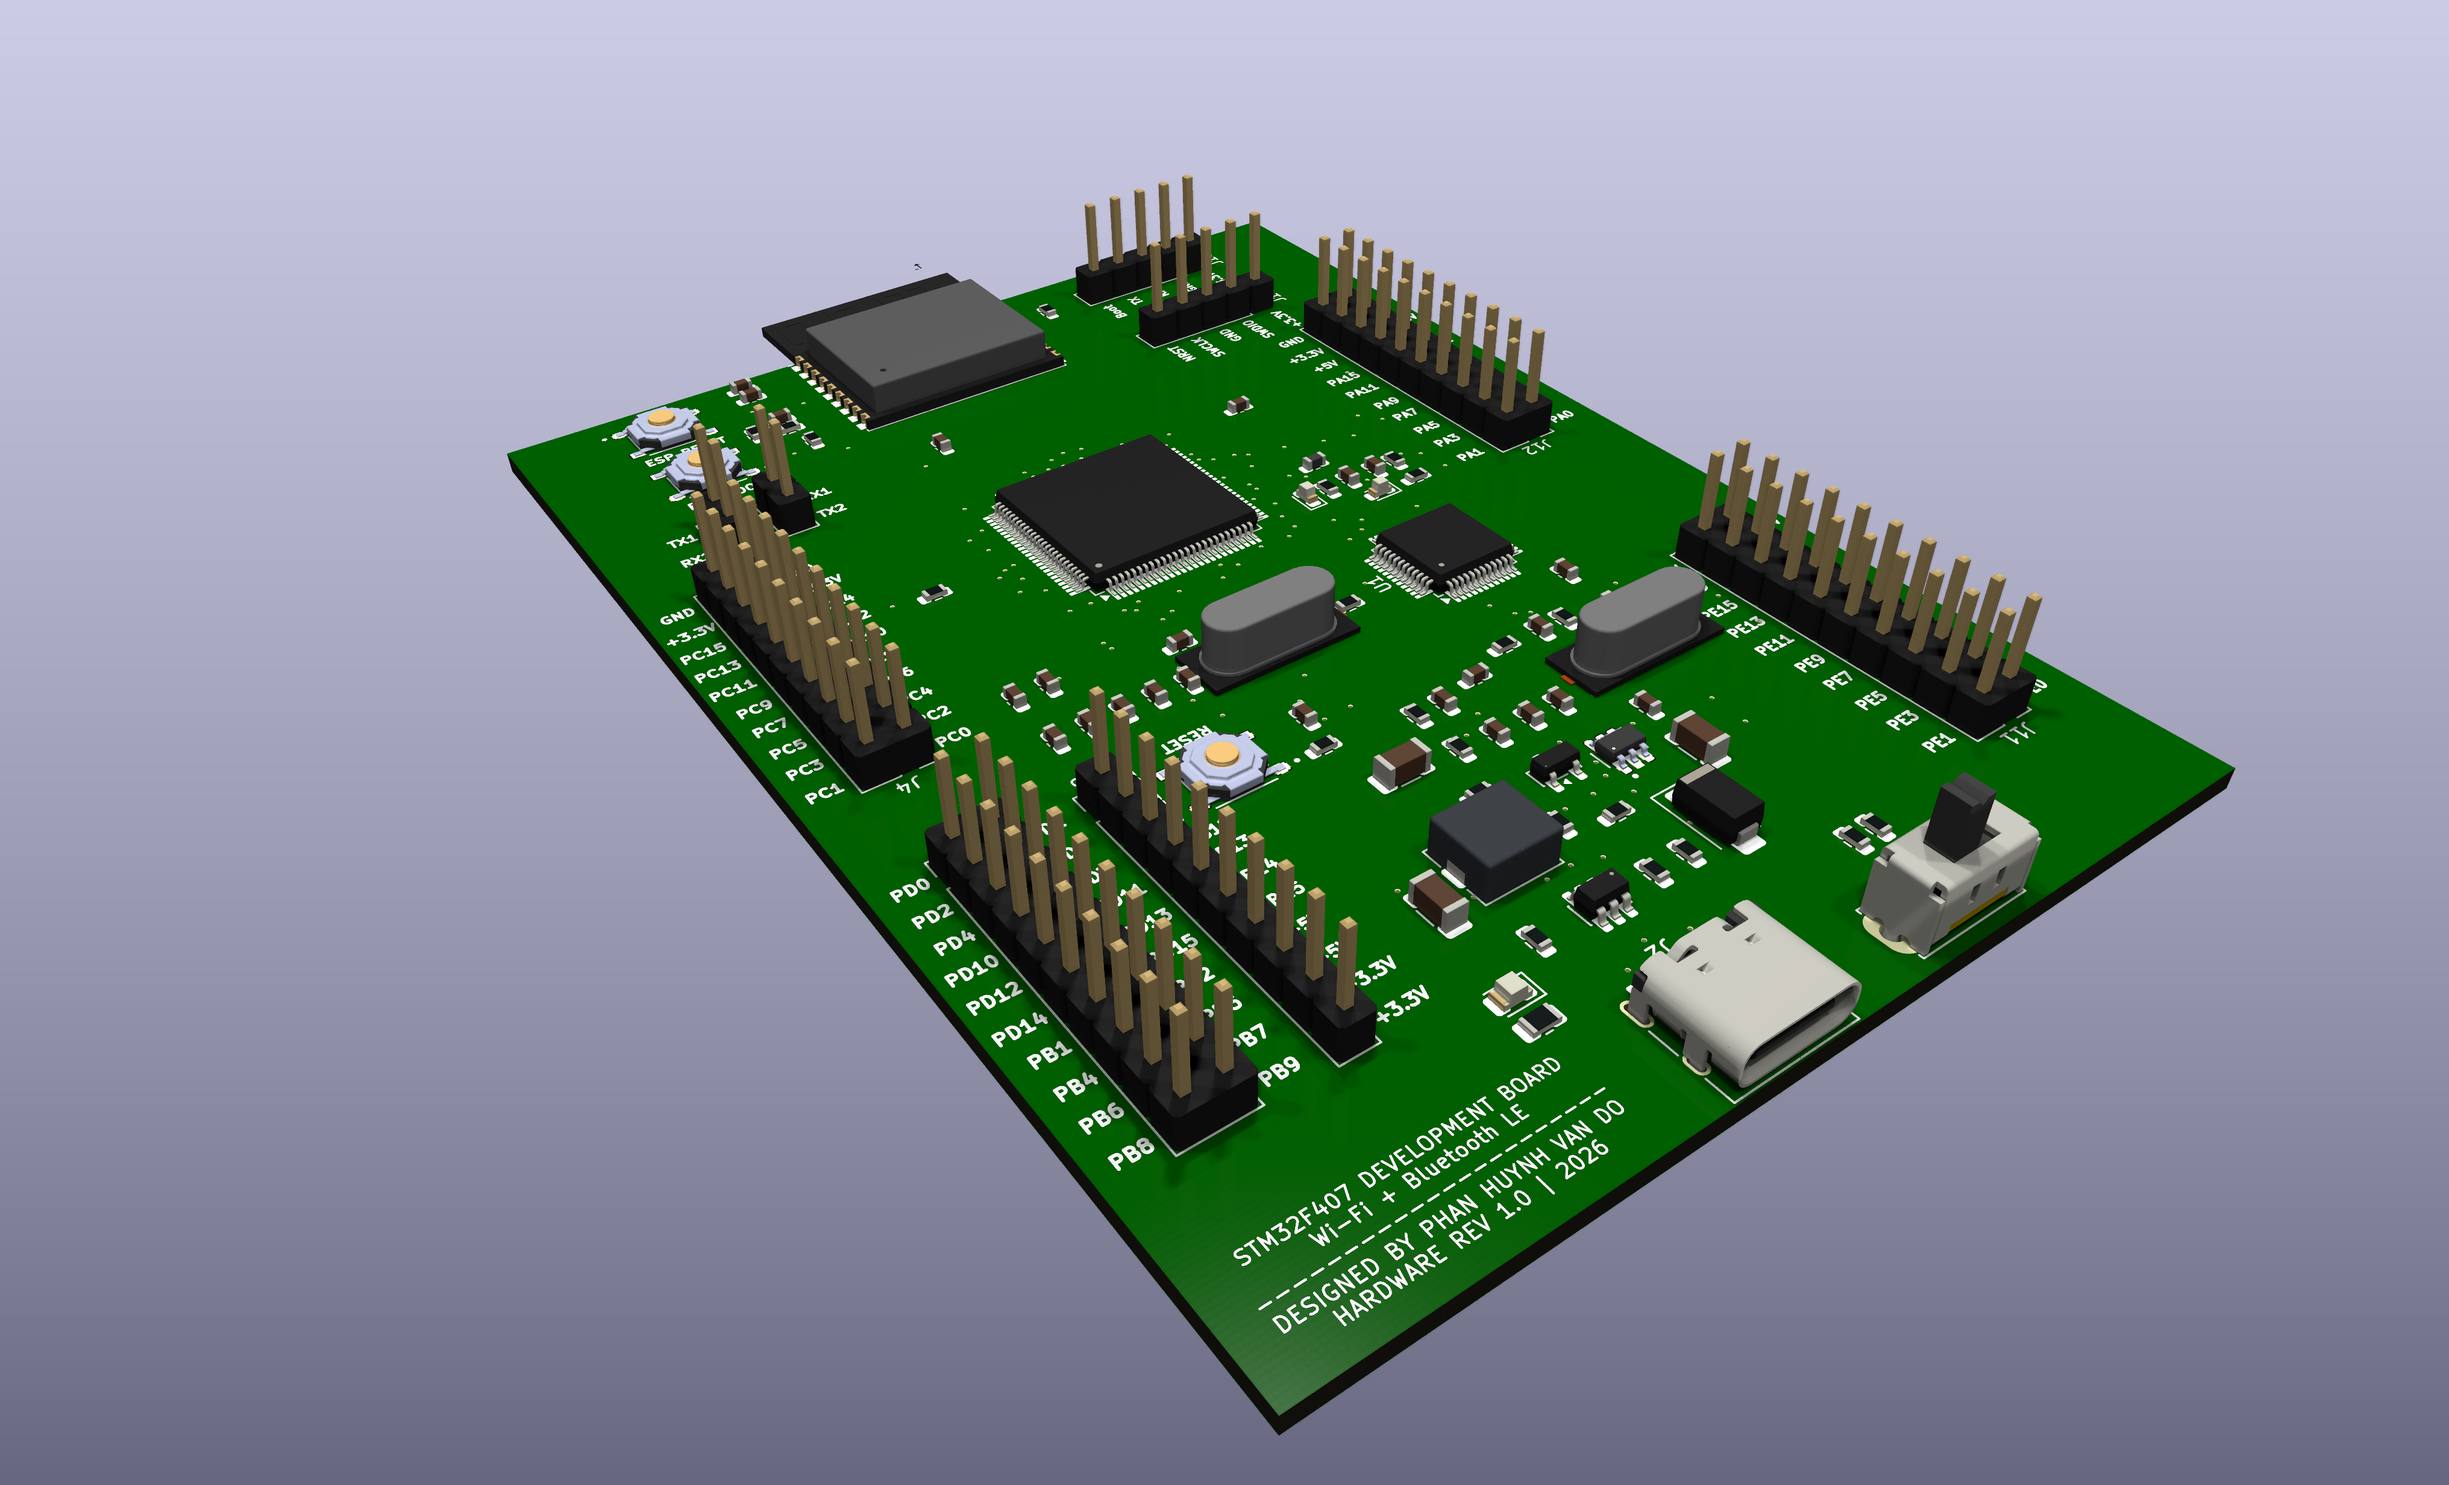
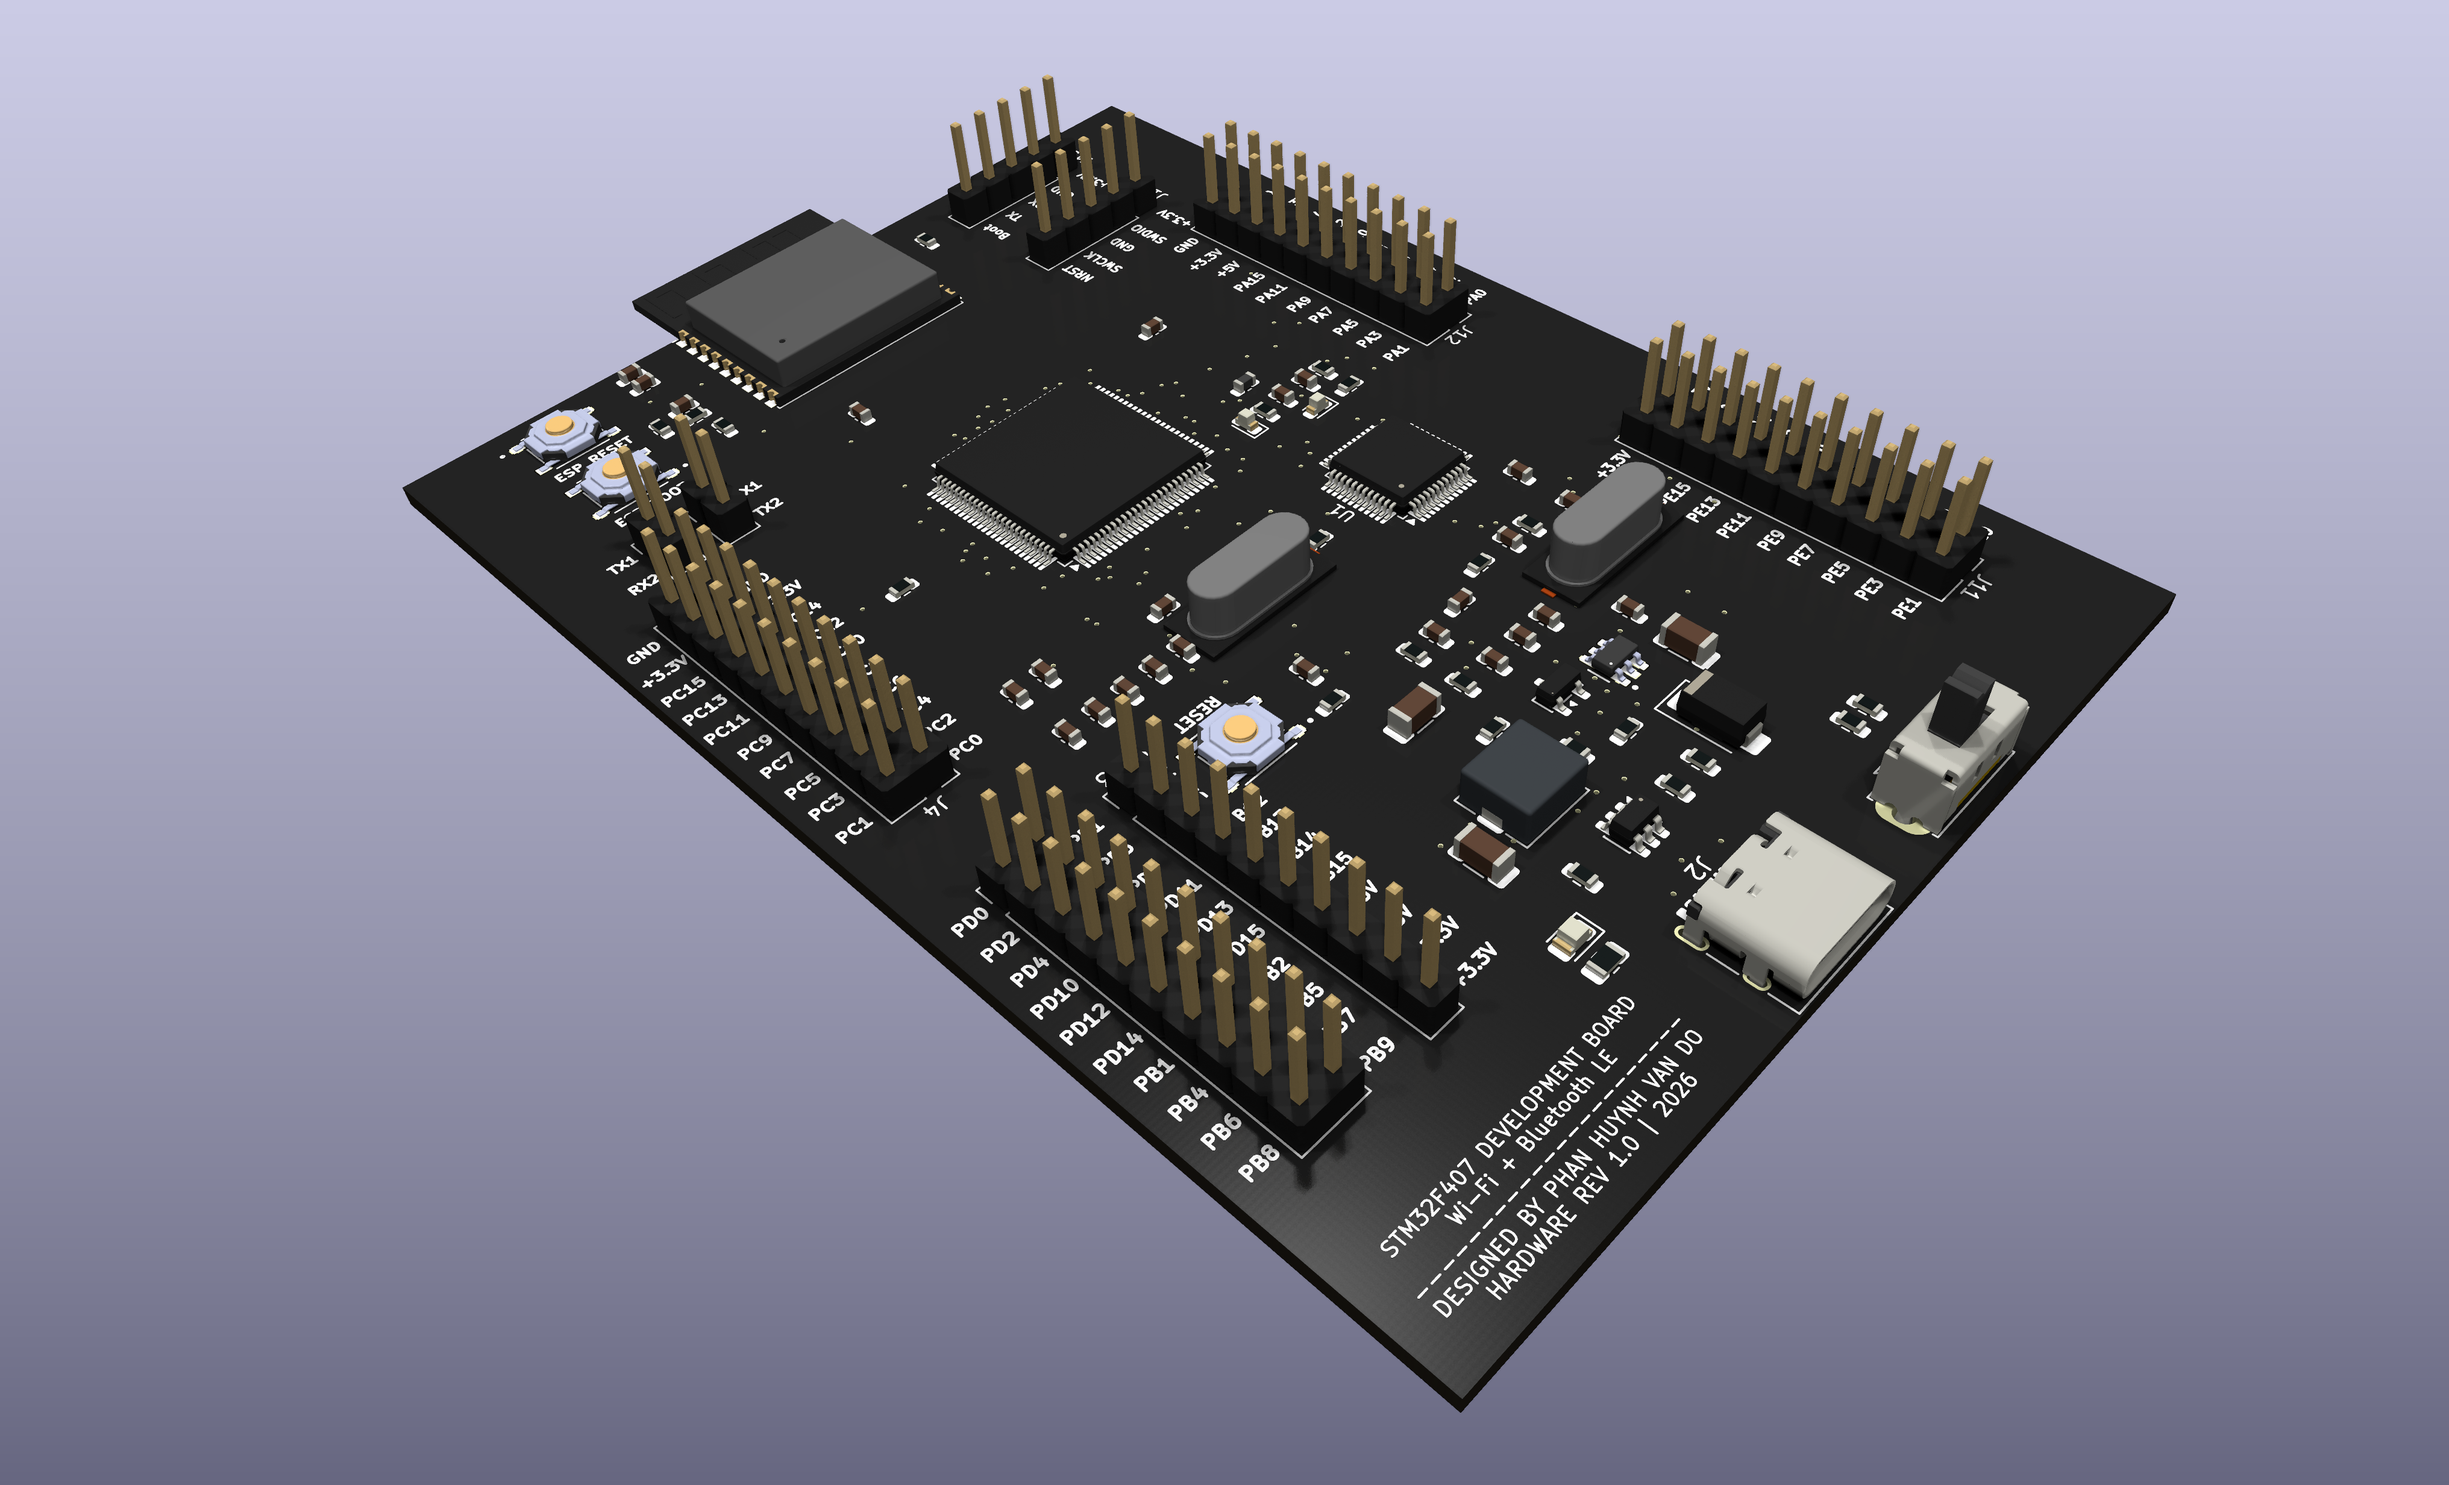
Update complete STM32F407 hardware project and documentation

diff --git a/README.md b/README.md
@@ -18,21 +18,17 @@
 
 ## 1. PCB 3D Preview
 
-Hình ảnh bên dưới được xuất từ **PCB KiCad của dự án**. Nhấn vào ảnh để mở bản gốc độ phân giải cao.
-
 ### Tổng quan bo mạch
 
-[![STM32F407 Wi-Fi/BLE — top 3D render](Images/board_3D%281%29.png)](Images/board_3D%281%29.png)
+[![STM32F407 Connect — 3D PCB overview](Images/board_3D%282%29.png)](Images/board_3D%282%29.png)
 
-### Phối cảnh 3D
+### Hai góc nhìn 3D bổ sung
 
-[![STM32F407 Wi-Fi/BLE — perspective 3D render](Images/board_3D%282%29.png)](Images/board_3D%282%29.png)
+| 3D View 01 — Top View | 3D View 02 — Perspective View |
+| :---: | :---: |
+| [![STM32F407 Connect — top 3D view](Images/board_3D%281%29.png)](Images/board_3D%281%29.png) | [![STM32F407 Connect — additional 3D perspective](Images/board_3D%283%29.png)](Images/board_3D%283%29.png) |
 
-### Hình 3D bổ sung
-
-[![STM32F407 Wi-Fi/BLE — additional 3D render](Images/board_3D%283%29.png)](Images/board_3D%283%29.png)
-
-> Các ảnh 3D là **render từ thiết kế PCB**, không phải ảnh của sản phẩm đã gia công hoặc lắp ráp.
+> **Lưu ý:** Cả ba ảnh là bản dựng 3D từ KiCad, chưa phải ảnh bo mạch đã gia công hoặc lắp ráp. Nhấn vào từng ảnh để mở bản gốc.
 
 ## 2. PCB Layout — 4 Copper Layers
 
